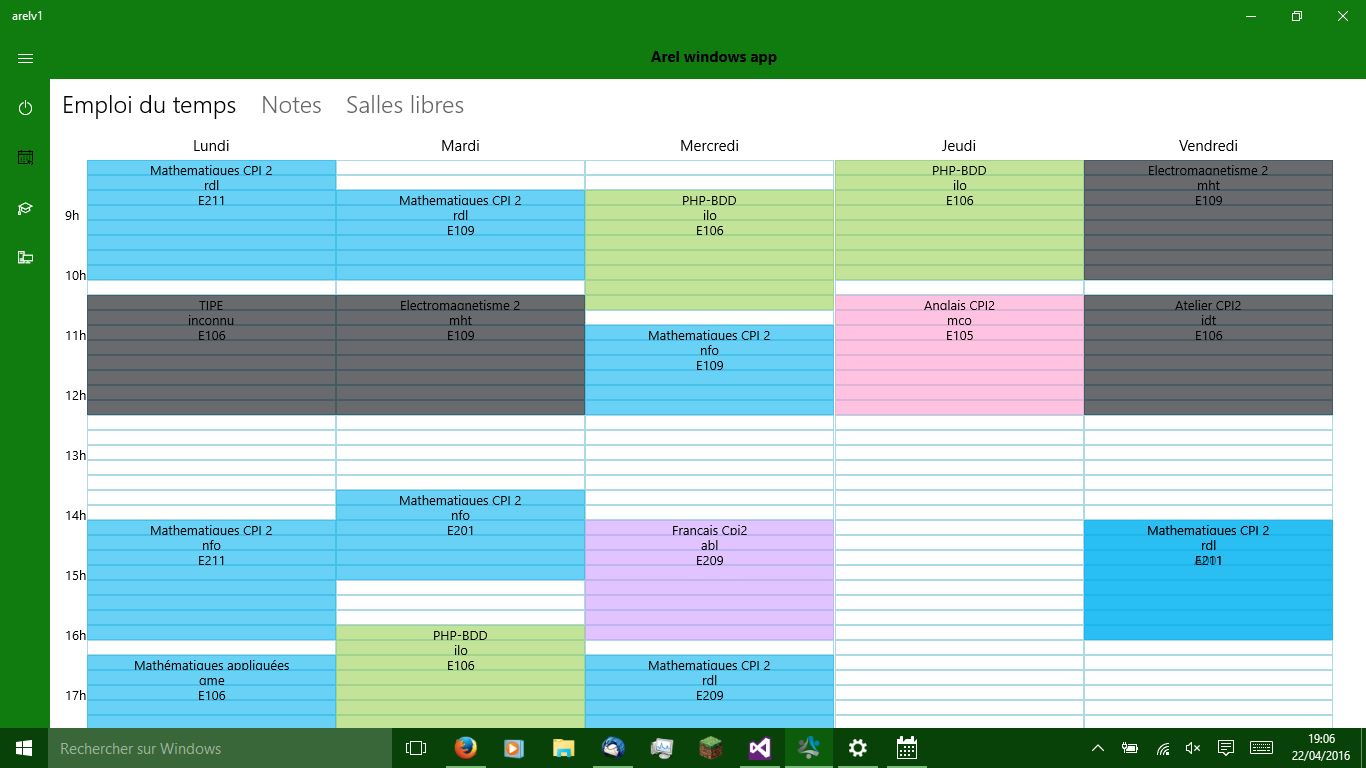
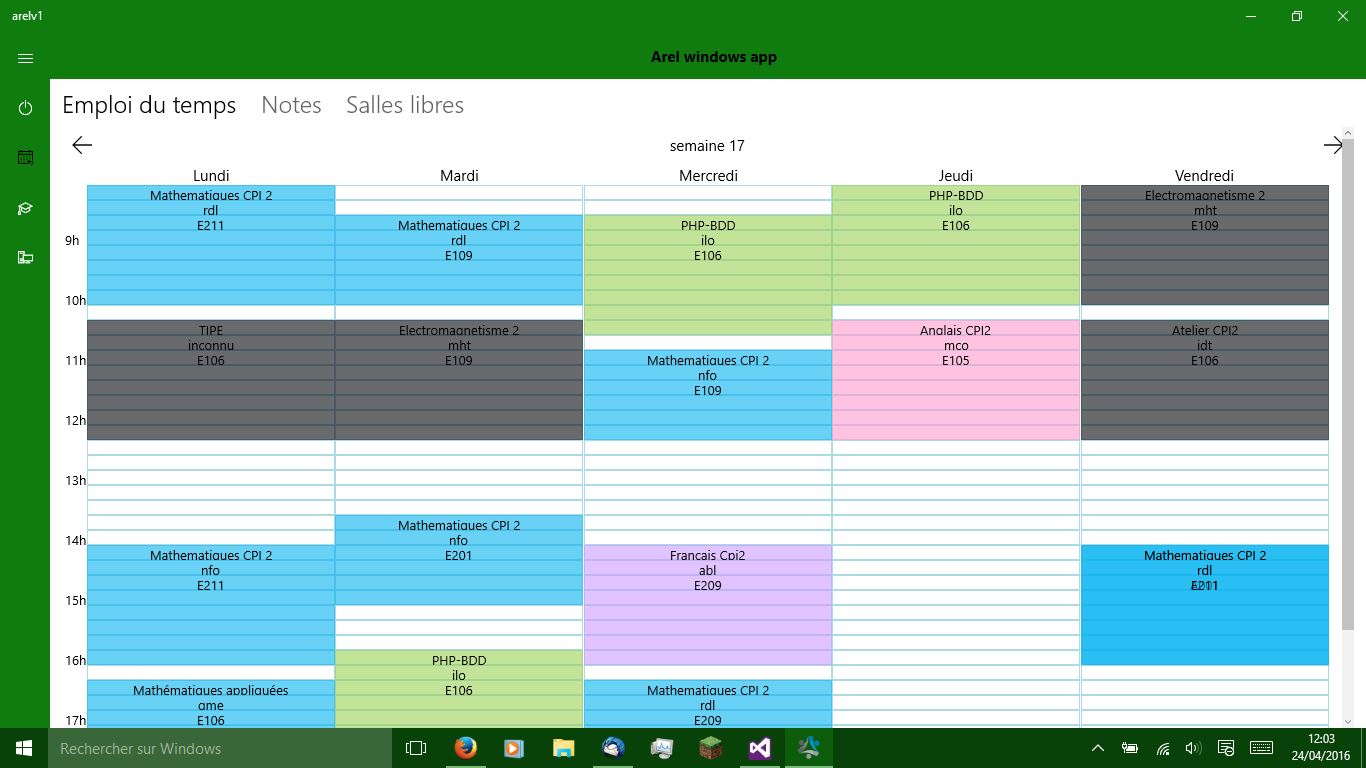
[FIX]:problème de dimension sur téléphone
==BUT==
-certains elements (les fleches) étaient décalées sur un affichage téléphone où reduit
-l'emploi du temps sortait de l'écran sur un téléphone

==ACTION==
-modif de acceuil.xaml (sortie des fleches de la grille)
-modif de calcTaille dans acceuil.xaml.cs

Changed region(s): [[0.0615, 0.1562, 1.0, 1.0]]

diff --git a/arelv1/acceuil.xaml b/arelv1/acceuil.xaml
@@ -66,85 +66,86 @@
 
                     <PivotItem x:Name="pivot1" Header="Emploi du temps" Foreground="black" Background="white" GotFocus="agendaClick" ScrollViewer.VerticalScrollBarVisibility="Visible" ScrollViewer.HorizontalScrollBarVisibility="Visible">
                         <!--emploi du temps-->
+                        <ScrollViewer>
+                        <StackPanel>
+                            <Grid Height="35" x:Name="button_week">
+                                <Button  Click="BackButton_Click" FontFamily="Segoe MDL2 Assets" Content="&#59179;" Height="35" Width="40" FontSize="20" Background="Transparent" Foreground="Black"  Grid.Column="0" Grid.Row="0" HorizontalAlignment="Left"/>
+                                <TextBlock x:Name="numeroSemaine" HorizontalAlignment="Center" VerticalAlignment="Center"/>
+                                <Button  Click="NextButton_Click" FontFamily="Segoe MDL2 Assets" Content="&#59178;" Height="35" Width="40" FontSize="20" Background="Transparent" Foreground="Black"  Grid.Column="0" Grid.Row="0" HorizontalAlignment="Right"/>
+                            </Grid>
+                            <ScrollViewer ScrollViewer.HorizontalScrollBarVisibility="Visible" ScrollViewer.VerticalScrollBarVisibility="Visible">
+
+
+                                    <Grid x:Name="grid"  Margin="3" ScrollViewer.HorizontalScrollBarVisibility="Visible">
+
+                                        <Grid.ColumnDefinitions >
+                                            <ColumnDefinition Width="auto"/>
+                                            <ColumnDefinition  Width="*" x:Name="c1"/>
+                                            <ColumnDefinition  Width="*" x:Name="c2"/>
+                                            <ColumnDefinition  Width="*" x:Name="c3"/>
+                                            <ColumnDefinition  Width="*" x:Name="c4"/>
+                                            <ColumnDefinition  Width="*" x:Name="c5"/>
+                                        </Grid.ColumnDefinitions>
+                                        <Grid.RowDefinitions>
+                                            <RowDefinition Height="auto" />
+                                            <RowDefinition Height="15" />
+                                            <RowDefinition Height="15" />
+                                            <RowDefinition Height="15" />
+                                            <RowDefinition Height="15" />
+                                            <RowDefinition Height="15" />
+                                            <RowDefinition Height="15" />
+                                            <RowDefinition Height="15" />
+                                            <RowDefinition Height="15" />
+                                            <RowDefinition Height="15" />
+                                            <RowDefinition Height="15" />
+
+                                            <RowDefinition Height="15" />
+                                            <RowDefinition Height="15" />
+                                            <RowDefinition Height="15" />
+                                            <RowDefinition Height="15" />
+                                            <RowDefinition Height="15" />
+                                            <RowDefinition Height="15" />
+                                            <RowDefinition Height="15" />
+                                            <RowDefinition Height="15" />
+                                            <RowDefinition Height="15" />
+                                            <RowDefinition Height="15" />
+
+                                            <RowDefinition Height="15" />
+                                            <RowDefinition Height="15" />
+                                            <RowDefinition Height="15" />
+                                            <RowDefinition Height="15" />
+                                            <RowDefinition Height="15" />
+                                            <RowDefinition Height="15" />
+                                            <RowDefinition Height="15" />
+                                            <RowDefinition Height="15" />
+                                            <RowDefinition Height="15" />
+                                            <RowDefinition Height="15" />
+
+                                            <RowDefinition Height="15" />
+                                            <RowDefinition Height="15" />
+                                            <RowDefinition Height="15" />
+                                            <RowDefinition Height="15" />
+                                            <RowDefinition Height="15" />
+                                            <RowDefinition Height="15" />
+                                            <RowDefinition Height="15" />
+                                            <RowDefinition Height="15" />
+                                            <RowDefinition Height="15" />
+                                            <RowDefinition Height="15" />
+
+                                            <RowDefinition Height="15" />
+                                            <RowDefinition Height="30" />
+
+                                        </Grid.RowDefinitions>
 
 
 
-                        <ScrollViewer ScrollViewer.HorizontalScrollBarVisibility="Visible">
-                            <StackPanel>
-                                <StackPanel Orientation="Horizontal" Height="35">
-                                    <Button  Click="BackButton_Click" FontFamily="Segoe MDL2 Assets" Content="&#59179;" Height="35" Width="40" FontSize="20" Background="Transparent" Foreground="Black"  Grid.Column="0" Grid.Row="0" HorizontalAlignment="Left"/>
-                                    <TextBlock x:Name="numeroSemaine" HorizontalAlignment="Center" VerticalAlignment="Center"/>
-                                    <Button  Click="NextButton_Click" FontFamily="Segoe MDL2 Assets" Content="&#59178;" Height="35" Width="40" FontSize="20" Background="Transparent" Foreground="Black"  Grid.Column="0" Grid.Row="0" HorizontalAlignment="Right"/>
-                                </StackPanel>
-                                <Grid x:Name="grid"  Margin="3">
-
-                                    <Grid.ColumnDefinitions >
-                                        <ColumnDefinition Width="auto"/>
-                                        <ColumnDefinition  Width="*" x:Name="c1"/>
-                                        <ColumnDefinition  Width="*" x:Name="c2"/>
-                                        <ColumnDefinition  Width="*" x:Name="c3"/>
-                                        <ColumnDefinition  Width="*" x:Name="c4"/>
-                                        <ColumnDefinition  Width="*" x:Name="c5"/>
-                                    </Grid.ColumnDefinitions>
-                                    <Grid.RowDefinitions>
-                                        <RowDefinition Height="auto" />
-                                        <RowDefinition Height="15" />
-                                        <RowDefinition Height="15" />
-                                        <RowDefinition Height="15" />
-                                        <RowDefinition Height="15" />
-                                        <RowDefinition Height="15" />
-                                        <RowDefinition Height="15" />
-                                        <RowDefinition Height="15" />
-                                        <RowDefinition Height="15" />
-                                        <RowDefinition Height="15" />
-                                        <RowDefinition Height="15" />
-
-                                        <RowDefinition Height="15" />
-                                        <RowDefinition Height="15" />
-                                        <RowDefinition Height="15" />
-                                        <RowDefinition Height="15" />
-                                        <RowDefinition Height="15" />
-                                        <RowDefinition Height="15" />
-                                        <RowDefinition Height="15" />
-                                        <RowDefinition Height="15" />
-                                        <RowDefinition Height="15" />
-                                        <RowDefinition Height="15" />
-
-                                        <RowDefinition Height="15" />
-                                        <RowDefinition Height="15" />
-                                        <RowDefinition Height="15" />
-                                        <RowDefinition Height="15" />
-                                        <RowDefinition Height="15" />
-                                        <RowDefinition Height="15" />
-                                        <RowDefinition Height="15" />
-                                        <RowDefinition Height="15" />
-                                        <RowDefinition Height="15" />
-                                        <RowDefinition Height="15" />
-
-                                        <RowDefinition Height="15" />
-                                        <RowDefinition Height="15" />
-                                        <RowDefinition Height="15" />
-                                        <RowDefinition Height="15" />
-                                        <RowDefinition Height="15" />
-                                        <RowDefinition Height="15" />
-                                        <RowDefinition Height="15" />
-                                        <RowDefinition Height="15" />
-                                        <RowDefinition Height="15" />
-                                        <RowDefinition Height="15" />
-
-                                        <RowDefinition Height="15" />
-                                        <RowDefinition Height="30" />
-
-                                    </Grid.RowDefinitions>
-
-
-
-                                </Grid>
-                            </StackPanel>
-                        </ScrollViewer>
+                                    </Grid>
+                            
+                            </ScrollViewer>
+                        </StackPanel>
                         <!--<ListBox ItemsSource="{Binding Prenoms}" ScrollViewer.VerticalScrollBarVisibility="Visible"/>
                         -->
-
+                        </ScrollViewer>
                     </PivotItem>
                     <PivotItem Header="Notes" Foreground="{ThemeResource DefaultTextForegroundThemeBrush}">
                         <!--les notes -->

diff --git a/arelv1/acceuil.xaml.cs b/arelv1/acceuil.xaml.cs
@@ -304,10 +304,10 @@ namespace arelv1
 
         private void calcTaille(object sender, SizeChangedEventArgs e)
         {
-            double width = ActualWidth;
-            if(width < 510)
+            double width = button_week.ActualWidth;
+            if(width < 450)
             {
-                width = width - 120;
+                width = width-50;
                 c1.Width = new GridLength(width);
                 c2.Width = new GridLength(width);
                 c3.Width = new GridLength(width);
@@ -316,7 +316,7 @@ namespace arelv1
             }
             else
             {
-                width = (width -120)/ 5;
+                width = (width -50)/ 5;
                 c1.Width = new GridLength(width);
                 c2.Width = new GridLength(width);
                 c3.Width = new GridLength(width);
